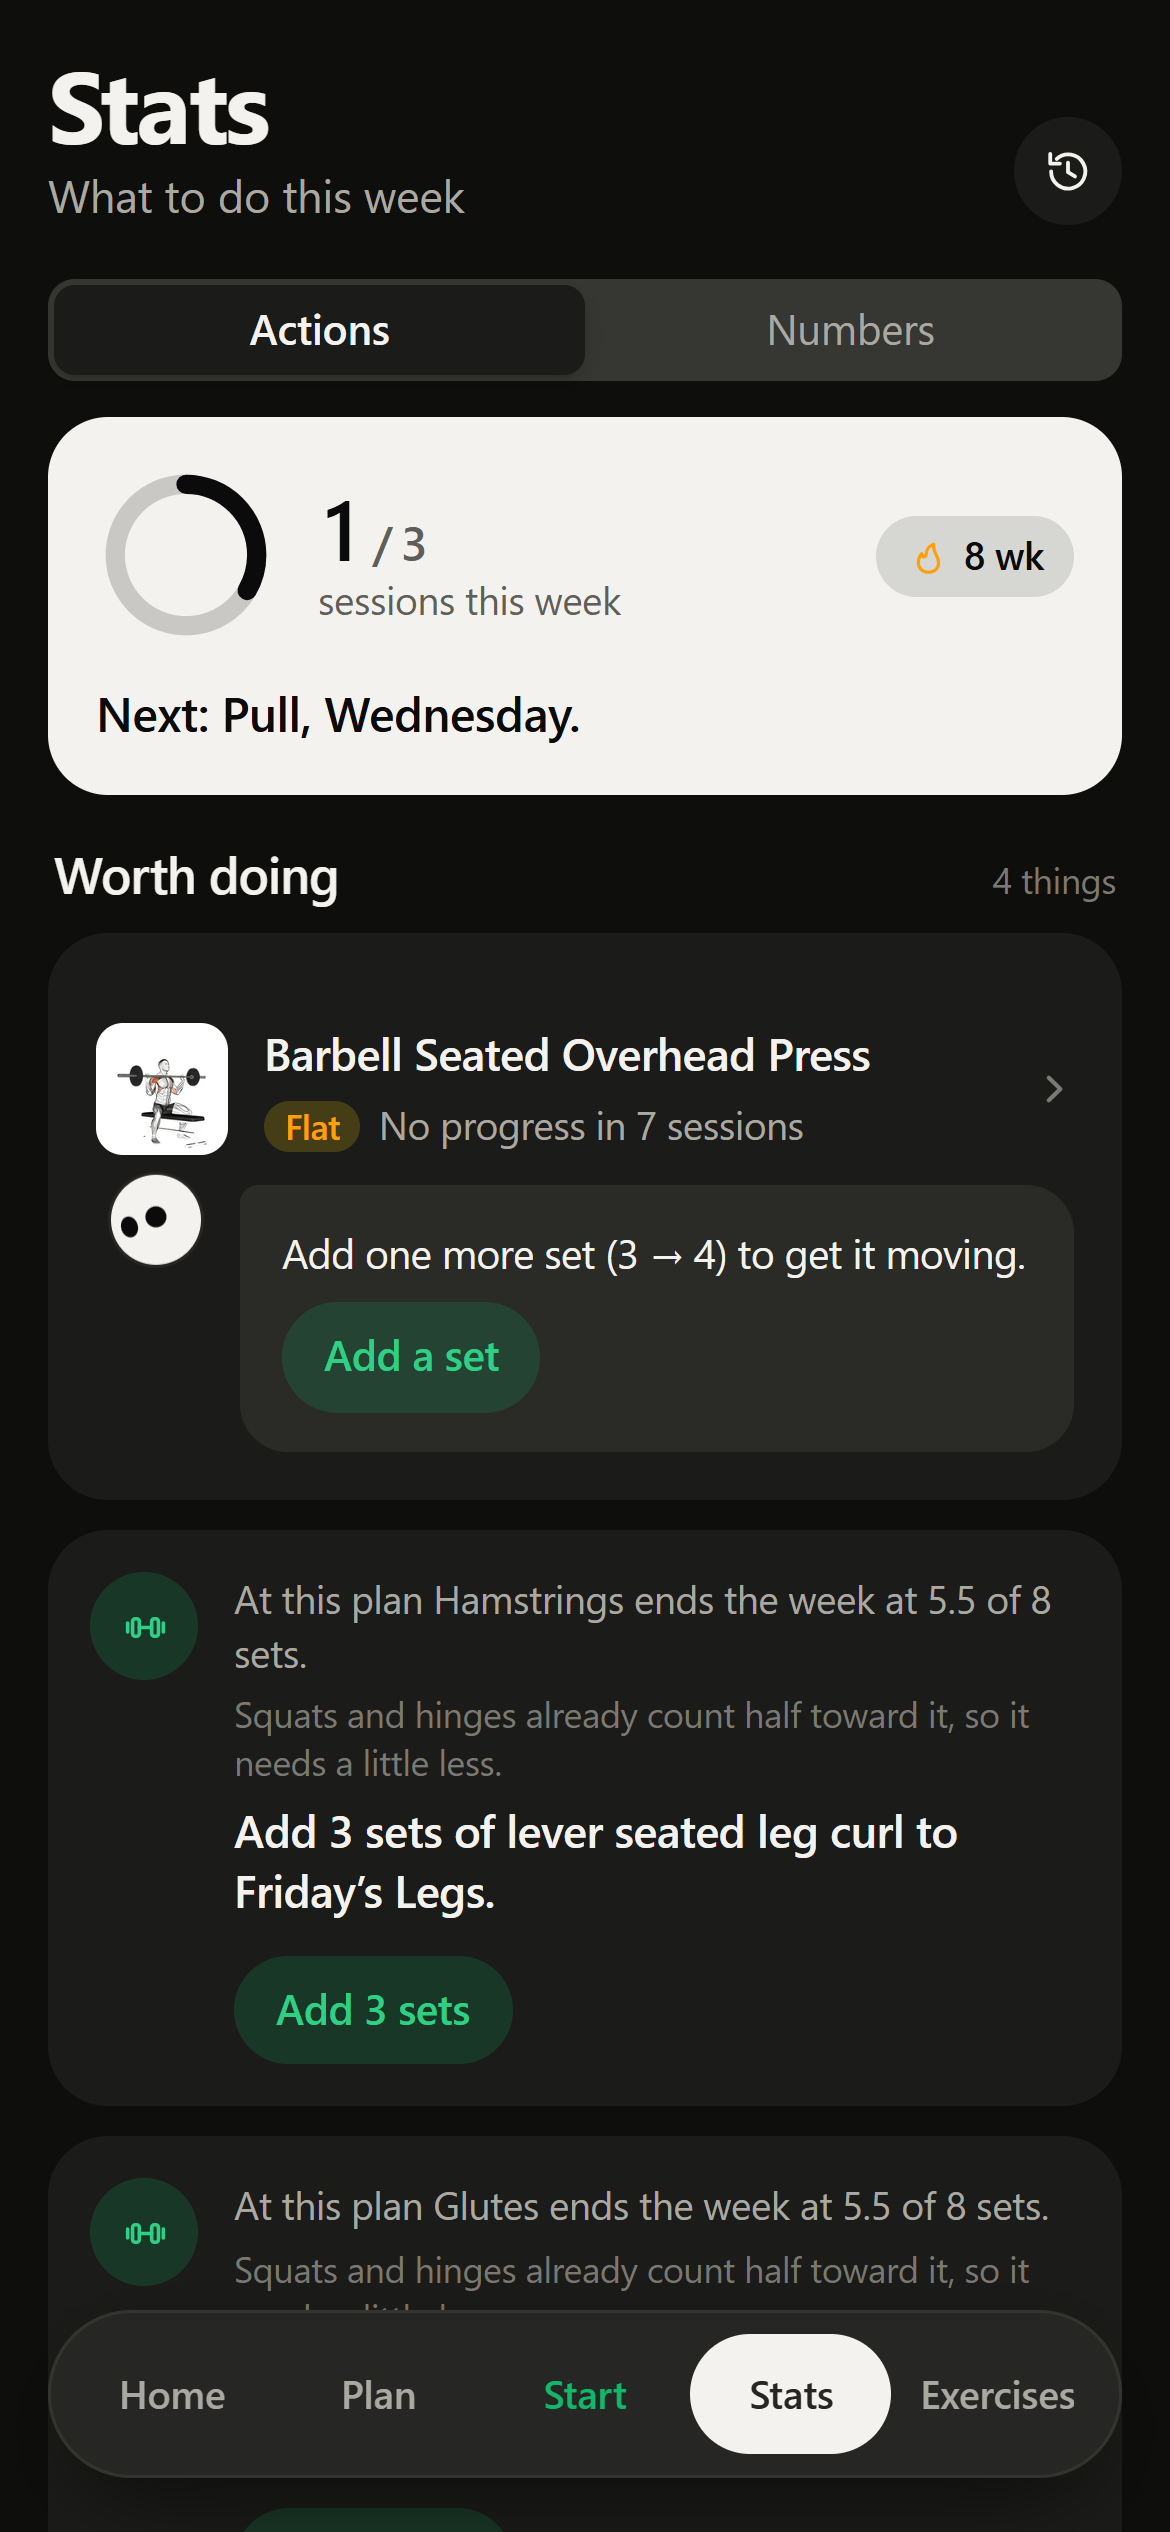
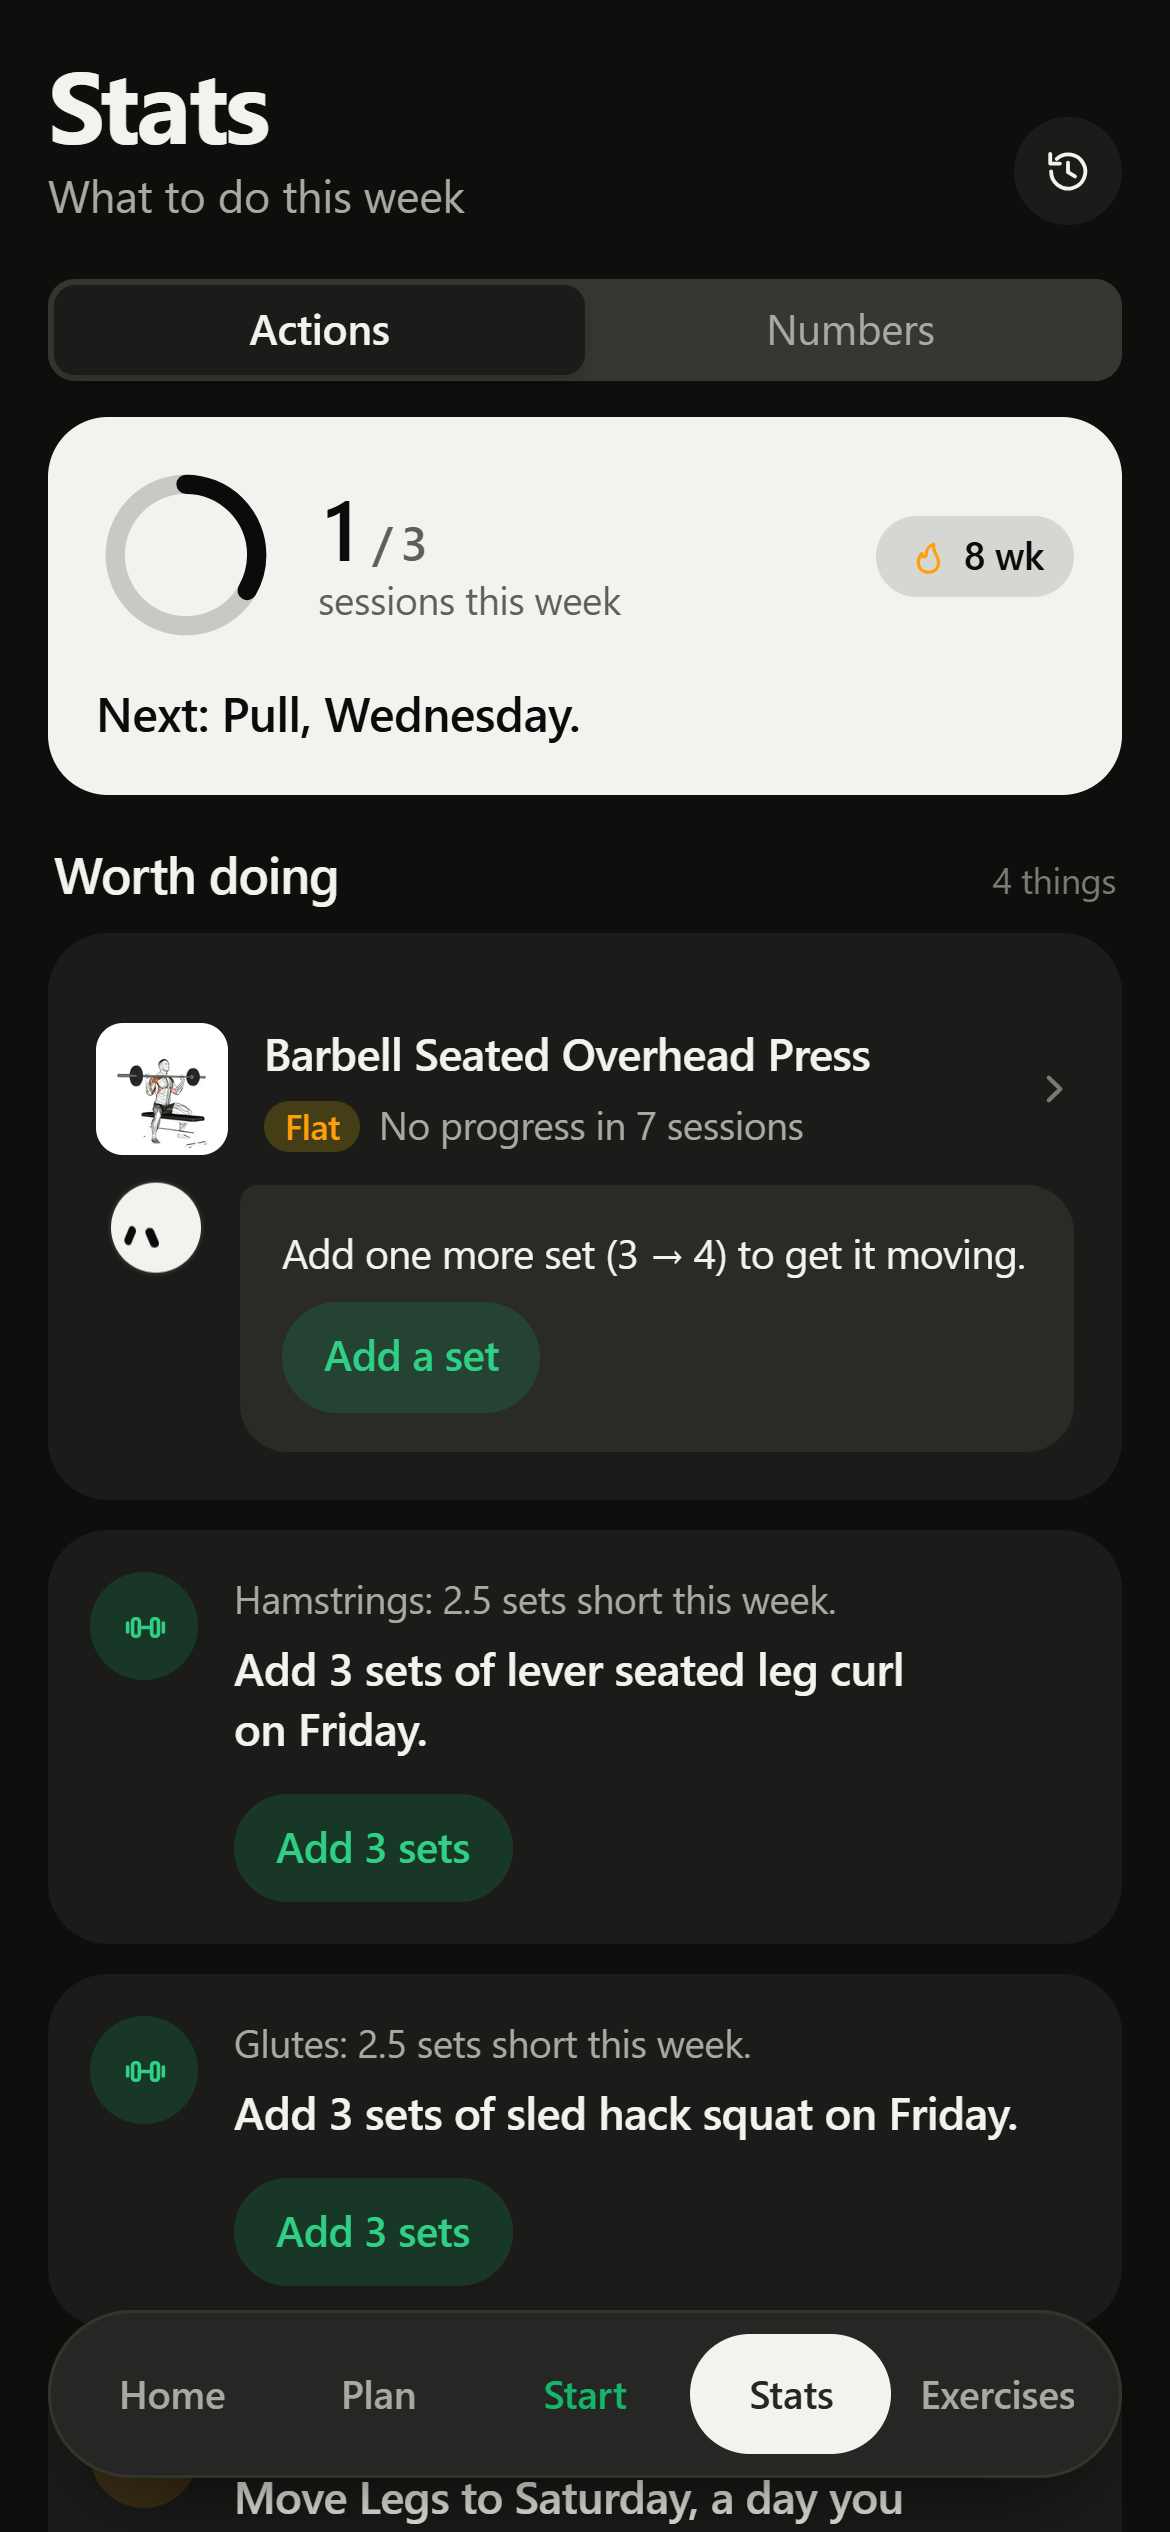
README designed around two images; shorter Stats suggestions
README: opens with a hero banner and a four-screen strip, both drawn on a
Claude Design canvas with the app's own design system and rendered to
assets/readme/. The hosted app is described as it is now: accounts with a
username and password on Supabase, sync across devices, and the choice the
app offers when both sides hold data. The architecture section shows both
backends and names lib/backend.js as the seam. Emoji bullets are gone.

Stats > Actions: a muscle card said three things before its button (where
the week ends, why the goal is what it is, what to add). It now says two:
how many sets short the week ends, which is the reason to act, and what to
add on which day. Why the goal is 8 and not 10 explained the target, not
the suggestion, so it left the card along with its style rule.

assets/screenshots/stats.png retaken with the new wording.

diff --git a/frontend/src/views/StatsActions.jsx b/frontend/src/views/StatsActions.jsx
@@ -25,12 +25,12 @@ const WEEKDAY = wd => new Date(2026, 0, 5 + wd).toLocaleDateString(dateLocale(),
 const dayName = iso => new Date(iso + 'T12:00:00').toLocaleDateString(dateLocale(), { weekday: 'long' })
 const plural = (n, one, many) => t(n === 1 ? one : many, n)
 
-function Card({ tone, icon, why, because, what, done, children }) {
+// Two lines at most: `why` is the reason to act with its number, `what` is the thing to do.
+function Card({ tone, icon, why, what, done, children }) {
   return <div className={'sx-act' + (done ? ' done' : '')}>
     <span className={'ic' + (tone ? ' ' + tone : '')}><Icon name={done ? 'check' : icon} /></span>
     <div className="bd">
       {why && <span className="why">{why}</span>}
-      {because && <span className="because">{because}</span>}
       <span className="what">{what}</span>
       {children && <div className="acts">{children}</div>}
     </div>
@@ -91,10 +91,12 @@ export default function StatsActions({ switcher }) {
     const m = t(MUSCLE_NAME[gap.m])
     const ex = nameOf(act.ex)
     const sets = act.sets === 1 ? t('1 set of {0}', ex) : t('{0} sets of {1}', act.sets, ex)
+    // The gap, not "5.5 of 8": how far short the week ends is the reason to act, and it's the
+    // number the suggestion under it answers. Why the goal is 8 isn't this card's job.
+    const short = Math.round((gap.goal - gap.projected) * 10) / 10
     return <Card key={i.key} icon="dumbbell"
-      why={t('At this plan {0} ends the week at {1} of {2} sets.', m, fmtNum(Math.round(gap.projected * 10) / 10), gap.goal)}
-      because={gap.why && t(gap.why)}
-      what={t('Add {0} to {1}’s {2}.', sets, dayName(act.iso), act.routine)}>
+      why={short === 1 ? t('{0}: 1 set short this week.', m) : t('{0}: {1} sets short this week.', m, fmtNum(short))}
+      what={t('Add {0} on {1}.', sets, dayName(act.iso))}>
       <Button size="sm" variant="tinted" onClick={() => accept(i.key, act, applyMuscle, t('Added {0} to {1}', ex, act.routine))}>{plural(act.sets, 'Add {0} set', 'Add {0} sets')}</Button>
     </Card>
   }

diff --git a/frontend/src/index.css b/frontend/src/index.css
@@ -2024,7 +2024,6 @@ button.mchip{font:inherit;font-size:12px}
 .sx-act .ic.warn{background:color-mix(in srgb,var(--orange) 15%,transparent);color:var(--orange)}
 .sx-act .bd{flex:1;min-width:0;display:flex;flex-direction:column;gap:4px}
 .sx-act .why{font-size:13px;line-height:1.35;color:var(--label-2)}
-.sx-act .because{font-size:12px;line-height:1.35;color:var(--label-3)}
 .sx-act .what{font-size:15px;font-weight:600;line-height:1.35;color:var(--label);text-wrap:pretty}
 .sx-act .acts{display:flex;align-items:center;gap:12px;margin-top:8px}
 .sx-act.done .what{font-weight:500;color:var(--label-2)}

diff --git a/README.md b/README.md
@@ -1,49 +1,30 @@
 <div align="center">
 
-<img src="assets/icons/icon-dark-1024.png" alt="openGym icon: Peek looking up at a peak" width="128">
+<a href="https://open-gym-lac.vercel.app"><img src="assets/readme/hero.png" alt="openGym: the gym tracker that tells you what to do next. Three phone screens show Peek's verdict on Home, this week's suggested actions in Stats, and a rising bench press trend." width="100%"></a>
 
-# openGym
+<br><br>
 
-**A gym tracker with a coach that reads your training and tells you what to do next.**
-
-Log your sets and Peek, the little orb on the Home screen, tells you whether you're
-actually getting stronger, which lift has gone flat and which muscle your plan leaves short.
+**Log your sets. Peek, the orb on the Home screen, reads them and tells you whether you're
+getting stronger, which lift has gone flat and which muscle your plan leaves short.**
 Every suggestion comes with its reason and one button to act on it.
-Free, open source, no ads, no tracking.
+
+### [Open the app →](https://open-gym-lac.vercel.app)
+
+<sub>Nothing to install and no sign-up to try it. Make an account when you want it on a second device.</sub>
 
 <br>
 
-### [▶ Try it in your browser](https://open-gym-lac.vercel.app)
-
-<sub>No sign-up. Your data stays in that browser. Add it to your home screen and it works like an app.</sub>
-
-<br>
-
-[![Live demo](https://img.shields.io/badge/demo-live-16b86a?style=flat-square)](https://open-gym-lac.vercel.app)
-[![License: AGPL v3](https://img.shields.io/badge/license-AGPL--3.0-16b86a?style=flat-square)](LICENSE)
-![PWA](https://img.shields.io/badge/PWA-installable-a78bfa?style=flat-square)
-![No tracking](https://img.shields.io/badge/telemetry-none-f472b6?style=flat-square)
-[![GitHub last commit](https://img.shields.io/github/last-commit/juan1232-cmyk/openGym?style=flat-square)](https://github.com/juan1232-cmyk/openGym/commits/main)
-[![GitHub stars](https://img.shields.io/github/stars/juan1232-cmyk/openGym?style=flat-square)](https://github.com/juan1232-cmyk/openGym/stargazers)
+[![Live app](https://img.shields.io/badge/app-live-1db36b?style=flat-square)](https://open-gym-lac.vercel.app)
+[![License: AGPL v3](https://img.shields.io/badge/license-AGPL--3.0-1db36b?style=flat-square)](LICENSE)
+![PWA](https://img.shields.io/badge/PWA-installable-f1f0ec?style=flat-square)
+![No tracking](https://img.shields.io/badge/telemetry-none-f1f0ec?style=flat-square)
+[![GitHub stars](https://img.shields.io/github/stars/juan1232-cmyk/openGym?style=flat-square&color=1db36b)](https://github.com/juan1232-cmyk/openGym/stargazers)
 
 </div>
 
 <br>
 
-<div align="center">
-<table>
-<tr>
-<td align="center"><img src="assets/screenshots/home.png" alt="Home screen: Peek says 8 lifts are going up, with this week's sets per muscle" width="250"><br><sub><b>Home</b>: Peek's verdict and your sets this week</sub></td>
-<td align="center"><img src="assets/screenshots/stats.png" alt="Stats, Actions tab: a flat overhead press with a suggestion to add a set" width="250"><br><sub><b>Stats</b>: what's worth doing this week</sub></td>
-<td align="center"><img src="assets/screenshots/exercise.png" alt="Bench press page: illustration, Peek's coach line and a rising progress chart" width="250"><br><sub><b>Exercise</b>: your trend and the next weight</sub></td>
-</tr>
-<tr>
-<td align="center"><img src="assets/screenshots/workout.png" alt="A workout in progress: bench press sets with last time's numbers beside them" width="250"><br><sub><b>Workout</b>: last time's numbers beside each set</sub></td>
-<td align="center"><img src="assets/screenshots/plan.png" alt="Plan: Push, Pull and Legs routines, each on its weekday" width="250"><br><sub><b>Plan</b>: routines and your week</sub></td>
-<td></td>
-</tr>
-</table>
-</div>
+<img src="assets/readme/screens.png" alt="Four screens, four answers. Home: am I getting stronger? Stats: what should I change this week? Exercise: what weight do I try next? Workout: what did I lift last time?" width="100%">
 
 ## Why another gym app
 
@@ -76,55 +57,59 @@ Try 80 kg next time."), and at the end of a workout to celebrate what went up.
 
 ## What it does for your progress
 
-- 🎯 **Sets per muscle, every week.** Each muscle has a weekly goal (10 sets for chest, upper back
+- **Sets per muscle, every week.** Each muscle has a weekly goal (10 sets for chest, upper back
   and quads, 8 for most others, 6 for abs) along with the reason for that number. Squats and
   hinges count half toward hamstrings and glutes, and an easy set counts less than one taken near
   failure.
-- ✅ **Stats that tell you what to do.** The *Actions* tab lists what's worth doing this week. A
+- **Stats that tell you what to do.** The *Actions* tab lists what's worth doing this week. A
   lift with no progress in 7 sessions gets "add one more set". A muscle the plan leaves short gets
   "add 3 sets of leg curls to Friday's Legs". A skipped day gets moved somewhere it fits. One tap
   applies the suggestion. The *Numbers* tab still has the charts, heatmap and PRs.
-- 📈 **Progression that follows a rule.** Pick one per routine, override it per exercise: linear,
+- **Progression that follows a rule.** Pick one per routine, override it per exercise: linear,
   **Greyskull LP** (AMRAP top set, 10% resets), double progression through a rep range, or adding
   time. Your weights are already set when the session opens, and every target says *why* it's
   that number. Missed reps never add weight, stalls lead to a deload, and bodyweight exercises
   progress in reps.
-- 💪 **Estimated 1RM and PRs.** Per exercise, worked out from your best eligible set (it shows
+- **Estimated 1RM and PRs.** Per exercise, worked out from your best eligible set (it shows
   which one), with a PR badge on every set that beat your previous best.
-- 🧍 **Two clear poses per exercise.** 1,324 exercises, each showing its two key positions as
+- **Two clear poses per exercise.** 1,324 exercises, each showing its two key positions as
   sharp upscaled illustrations, plus step-by-step instructions.
 
 <details>
 <summary><b>Everything else it does</b></summary>
 <br>
 
-- ▶ **Guided workouts.** Starts today's session from your weekly plan, pre-fills last time's
+- **Guided workouts.** Starts today's session from your weekly plan, pre-fills last time's
   numbers, and has a rest timer. The screen stays awake while you train.
-- 🗓 **Reschedule a day** without touching your weekly plan.
-- 🔗 **Supersets**, ⏱ **timed exercises** (planks, hangs, carries) and 🏃 **cardio** (time + speed).
-- ↔ **Reps per side** for lunges and single-arm work. Bodyweight exercises have no weight
+- **Reschedule a day** without touching your weekly plan.
+- **Supersets**, **timed exercises** (planks, hangs, carries) and **cardio** (time + speed).
+- **Reps per side** for lunges and single-arm work. Bodyweight exercises have no weight
   column, and a dip belt counts as added weight.
-- 🎚 **Effort per set (optional)** as RIR or RPE, read back in Stats as an effort card and a
+- **Effort per set (optional)** as RIR or RPE, read back in Stats as an effort card and a
   hard-sets view of the muscle map.
-- 🧠 **Muscle map.** Front and back, shaded by the work each muscle got this week, month or all
+- **Muscle map.** Front and back, shaded by the work each muscle got this week, month or all
   time. It also previews what a routine hits while you build it.
-- ⚖ **Body weight** with a goal line, and a 🟩 GitHub-style **activity heatmap**.
-- 🔧 **Filter the library by the equipment you own**, and add ✨ **your own exercises**.
-- 📥 **Import** from FitNotes, Strong and Hevy, or body weight from Apple Health.
-  📤 **Share a plan** as a small file or a printable PDF.
-- 🌍 **12 languages** for the UI, with exercise instructions in 10 of them.
-- 🎨 Light/dark theme and 8 accent colours.
-- 📦 **Yours to keep.** One-tap JSON export/import and no telemetry.
-- Self-hosted extras: 🔑 passkey sign-in synced across devices, 🔔 push notifications for rest
-  timers and missed days, and an optional 🛠 admin dashboard with invite-only signup.
+- **Body weight** with a goal line, and a GitHub-style **activity heatmap**.
+- **Filter the library by the equipment you own**, and add **your own exercises**.
+- **Import** from FitNotes, Strong and Hevy, or body weight from Apple Health.
+  **Share a plan** as a small file or a printable PDF.
+- **12 languages** for the UI, with exercise instructions in 10 of them.
+- Light/dark theme and 8 accent colours.
+- **Yours to keep.** One-tap JSON export/import and no telemetry.
+- Self-hosted extras: passkey sign-in synced across devices, push notifications for rest
+  timers and missed days, and an optional admin dashboard with invite-only signup.
 
 </details>
 
 ## Try it
 
-**In the browser:** [open-gym-lac.vercel.app](https://open-gym-lac.vercel.app). It runs in guest
-mode, so everything is saved in that browser only. To keep it on your phone: **iPhone**, Safari →
-Share → Add to Home Screen. **Android**, Chrome → ⋮ → Add to Home screen.
+**In the browser:** [open-gym-lac.vercel.app](https://open-gym-lac.vercel.app). Start as a guest,
+which keeps everything in that browser, or make an account with a username and password (no email
+needed) and your training follows you to every device you sign in on. If a device already holds
+workouts when you sign in, the app asks which copy to keep. It never overwrites one silently.
+
+**On your phone:** it installs like an app. **iPhone**, Safari → Share → Add to Home Screen.
+**Android**, Chrome → ⋮ → Add to Home screen.
 
 **With demo data:** [open-gym-lac.vercel.app/device.html](https://open-gym-lac.vercel.app/device.html)
 shows the app inside a drawn iPhone, with buttons that load made-up training histories (Progressing,
@@ -133,8 +118,9 @@ without logging a month of sessions. It replaces whatever that browser has saved
 
 ## Run it yourself
 
-The hosted demo has no server, so it can't sync. Running your own copy adds the backend: passkey
-sign-in, sync across your phone and laptop, and push notifications.
+The hosted app keeps accounts on Supabase. If you'd rather own the server, the repo has a small
+backend of its own: passkey sign-in, sync across your phone and laptop, push notifications for rest
+timers and missed days, and nothing leaving your machine.
 
 **With Node** (20.19+ or 22.12+), in two terminals:
 
@@ -186,14 +172,18 @@ never leave your device.
 ## How it's built
 
 ```
- phone / laptop ──▶  web (nginx)  ── serves the React app
-                        │
-                        └─ /api ──▶  api (Node + WebAuthn) ──▶ data/*.json
+                     ┌─ hosted ───────▶  Supabase (accounts, one row of state per user)
+ React app (PWA) ────┤
+                     └─ self-hosted ──▶  api/ (Node + passkeys) ──▶ data/*.json
 ```
 
 - **frontend/**: React 19 + Vite, React Router and Zustand. That's the whole runtime. The full
   app state is one object in one store, saved to `localStorage` and synced to the server a moment
   after each change.
+- **One seam for the server.** [`frontend/src/lib/backend.js`](frontend/src/lib/backend.js) is the
+  only file that talks to an account server. Built with a Supabase URL it uses Supabase, and
+  without one it uses `api/`. The rest of the app can't tell which it has. On Supabase each
+  account is one row, and row-level security means a signed-in user can only read or write their own.
 - **api/**: plain `node:http` with no framework and no database, just JSON files. Two dependencies
   (`@simplewebauthn/server` for passkeys, `web-push`).
 - **The coaching is pure functions** in [`frontend/src/lib/`](frontend/src/lib): progression,
@@ -206,15 +196,15 @@ never leave your device.
 - [x] Peek's progress verdict, weekly sets per muscle, Stats → Actions
 - [x] Progression rules (linear, Greyskull LP, double progression) with stalls and deloads
 - [x] Estimated 1RM, PR badges, importers from FitNotes / Strong / Hevy
-- [ ] **Coming soon:** accounts + sync on the hosted version, so the browser demo stops being
-      device-only
+- [x] Accounts and sync on the hosted app (username and password, no email)
+- [ ] Sign in with Google
 - [ ] Percentage / training-max programs (5/3/1-style) on top of the progression engine
 - [ ] More starter plans (upper/lower, full-body, 5×5)
 - [ ] Body measurements (waist, arms…) alongside weight
 - [ ] Plate calculator and per-exercise notes
 
 Found a bug or have an idea? [Open an issue](https://github.com/juan1232-cmyk/openGym/issues).
-**And if you like where this is going, a ⭐ helps more people find it.**
+**And if you like where this is going, a star helps more people find it.**
 
 ## Credits
 
